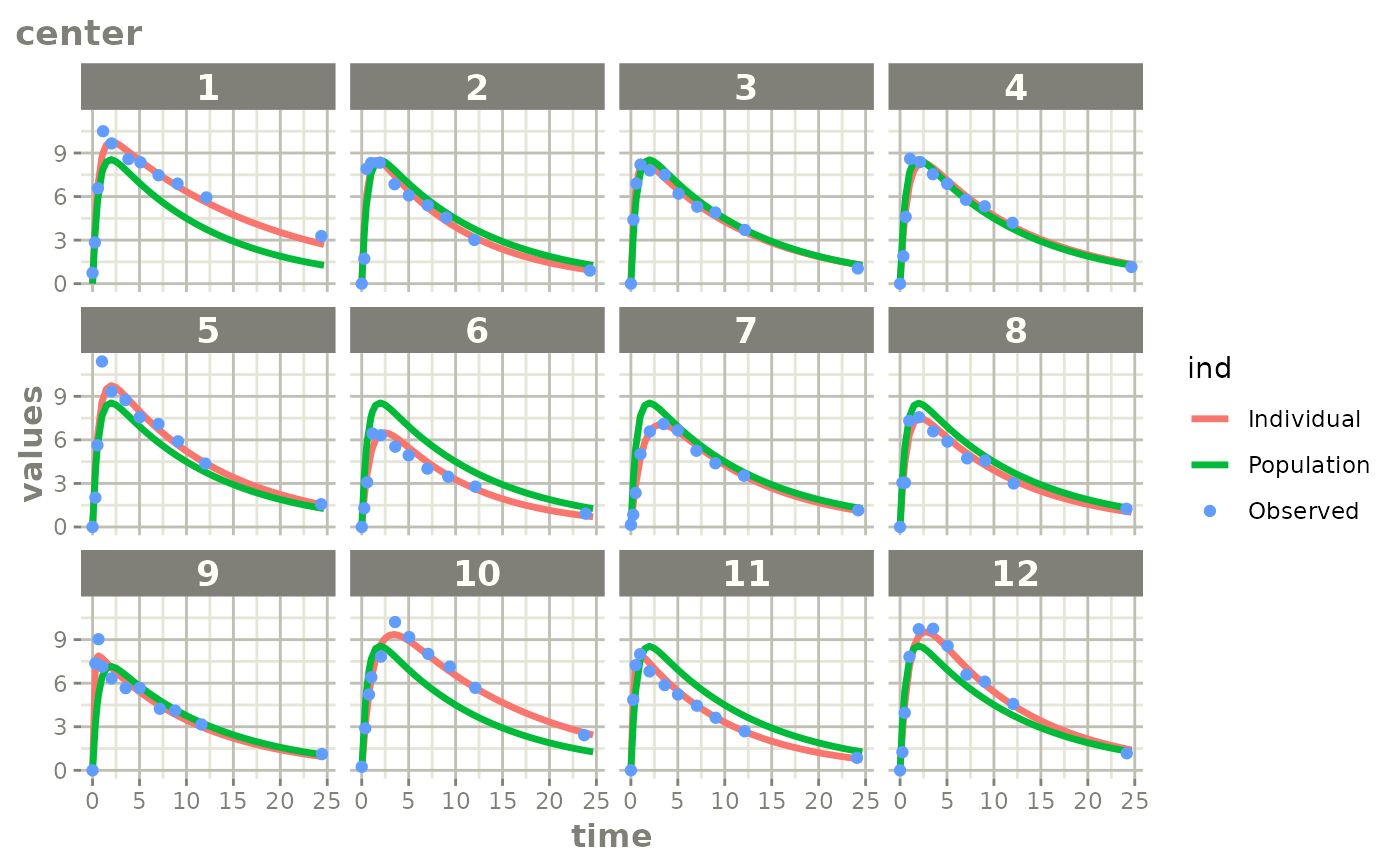
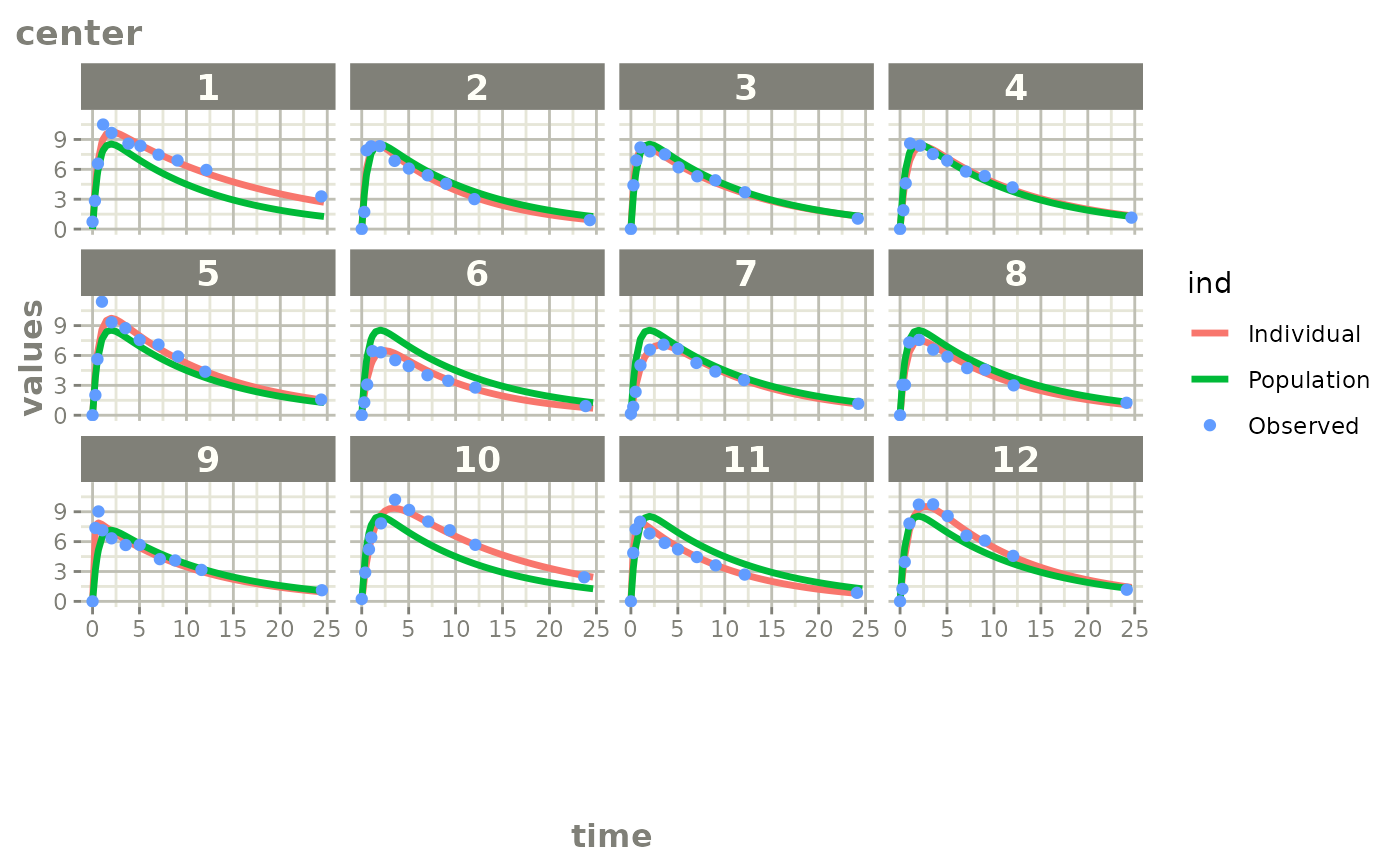
Deploying to gh-pages from @ nlmixr2/nlmixr2plot@66f21967ef0bb30d67d6c0e876495583da8b12fa 🚀

diff --git a/reference/plot.nlmixr2FitData.html b/reference/plot.nlmixr2FitData.html
@@ -56,8 +56,8 @@
 </dl></div>
     <div class="section level2">
     <h2 id="value">Value<a class="anchor" aria-label="anchor" href="#value"></a></h2>
-    <p>An <code>nlmixr2PlotList</code> object (a list of ggplot2 objects with easier
-plotting for all of them at the same time)</p>
+    <p>A named, nested <code><a href="https://humanpred.github.io/ggtibble/reference/gglist.html" class="external-link">ggtibble::gglist</a></code> object (a list of ggplot2 objects
+with easier plotting of all of them at the same time)</p>
     </div>
     <div class="section level2">
     <h2 id="author">Author<a class="anchor" aria-label="anchor" href="#author"></a></h2>
@@ -121,8 +121,8 @@ plotting for all of them at the same time)</p>
 <span class="r-msg co"><span class="r-pr">#&gt;</span> → Calculating residuals/tables</span>
 <span class="r-msg co"><span class="r-pr">#&gt;</span> <span style="color: #00BB00;">✔</span> done</span>
 <span class="r-msg co"><span class="r-pr">#&gt;</span> → compress origData in nlmixr2 object, save 6584</span>
-<span class="r-msg co"><span class="r-pr">#&gt;</span> → compress parHistData in nlmixr2 object, save 2584</span>
-<span class="r-msg co"><span class="r-pr">#&gt;</span> → compress phiM in nlmixr2 object, save 15072</span>
+<span class="r-msg co"><span class="r-pr">#&gt;</span> → compress parHistData in nlmixr2 object, save 2576</span>
+<span class="r-msg co"><span class="r-pr">#&gt;</span> → compress phiM in nlmixr2 object, save 15088</span>
 <span class="r-in"><span></span></span>
 <span class="r-in"><span><span class="co"># This shows many goodness of fit plots</span></span></span>
 <span class="r-in"><span><span class="fu"><a href="https://rdrr.io/r/graphics/plot.default.html" class="external-link">plot</a></span><span class="op">(</span><span class="va">fit</span><span class="op">)</span></span></span>

diff --git a/reference/plot.nlmixr2AugPred.html b/reference/plot.nlmixr2AugPred.html
@@ -60,7 +60,8 @@
 </dl></div>
     <div class="section level2">
     <h2 id="value">Value<a class="anchor" aria-label="anchor" href="#value"></a></h2>
-    <p>Nothing called for side effects</p>
+    <p>A <code><a href="https://humanpred.github.io/ggtibble/reference/gglist.html" class="external-link">ggtibble::gglist</a></code> object (a list of ggplot2 objects, one per page
+of individual plots)</p>
     </div>
 
     <div class="section level2">
@@ -131,8 +132,8 @@
 <span class="r-msg co"><span class="r-pr">#&gt;</span> → Calculating residuals/tables</span>
 <span class="r-msg co"><span class="r-pr">#&gt;</span> <span style="color: #00BB00;">✔</span> done</span>
 <span class="r-msg co"><span class="r-pr">#&gt;</span> → compress origData in nlmixr2 object, save 6584</span>
-<span class="r-msg co"><span class="r-pr">#&gt;</span> → compress parHistData in nlmixr2 object, save 8320</span>
-<span class="r-msg co"><span class="r-pr">#&gt;</span> → compress phiM in nlmixr2 object, save 312080</span>
+<span class="r-msg co"><span class="r-pr">#&gt;</span> → compress parHistData in nlmixr2 object, save 8328</span>
+<span class="r-msg co"><span class="r-pr">#&gt;</span> → compress phiM in nlmixr2 object, save 312064</span>
 <span class="r-in"><span></span></span>
 <span class="r-in"><span><span class="co"># augPred shows more points for the fit:</span></span></span>
 <span class="r-in"><span></span></span>

diff --git a/news/index.html b/news/index.html
@@ -33,7 +33,9 @@
 
     <div class="section level2">
 <h2 class="pkg-version" data-toc-text="5.0.2.9000" id="nlmixr2plot-5029000">nlmixr2plot 5.0.2.9000<a class="anchor" aria-label="anchor" href="#nlmixr2plot-5029000"></a></h2>
-<ul><li>Removed obsolete <code>rxode2::.linCmtSensB()</code> test guards. That internal was removed from <code>rxode2</code> in 2025, so the <code><a href="https://rdrr.io/r/base/try.html" class="external-link">try()</a></code>/<code>skip_if_not()</code> checks always fell through and never skipped. <code>linCmt()</code> gradients are now always available, so the guards are unnecessary and the tests run unconditionally.</li>
+<ul><li>Plot collections returned by <code><a href="https://rdrr.io/r/graphics/plot.default.html" class="external-link">plot()</a></code> (for fits and <code>augPred</code> objects) are now <code>gglist</code> objects from the <code>ggtibble</code> package instead of the internal <code>nlmixr2PlotList</code> class. They still print/plot all figures at once and support broadcasting <code>ggplot2</code> additions (e.g. <code>plot(fit) + ggplot2::theme_bw()</code>), and the top-level object remains a named, nested collection (<code>plot(fit)[["Endpoint: ..."]]</code>). The collection can also be converted to a <code>ggtibble</code> for reporting with <code><a href="https://humanpred.github.io/ggtibble/reference/as_ggtibble.html" class="external-link">ggtibble::as_ggtibble()</a></code>.</li>
+<li>Individual/<code>augPred</code> plots are now paginated with <code><a href="https://ggforce.data-imaginist.com/reference/facet_wrap_paginate.html" class="external-link">ggforce::facet_wrap_paginate()</a></code>, removing the hand-written 16-IDs-per-page chunking. Requires <code>ggtibble (&gt;= 1.0.3.9000)</code> and <code>ggforce</code>; the minimum R version is now 4.3.</li>
+<li>Removed obsolete <code>rxode2::.linCmtSensB()</code> test guards. That internal was removed from <code>rxode2</code> in 2025, so the <code><a href="https://rdrr.io/r/base/try.html" class="external-link">try()</a></code>/<code>skip_if_not()</code> checks always fell through and never skipped. <code>linCmt()</code> gradients are now always available, so the guards are unnecessary and the tests run unconditionally.</li>
 </ul></div>
     <div class="section level2">
 <h2 class="pkg-version" data-toc-text="5.0.2" id="nlmixr2plot-502">nlmixr2plot 5.0.2<a class="anchor" aria-label="anchor" href="#nlmixr2plot-502"></a></h2><p class="text-muted">CRAN release: 2026-06-11</p>

diff --git a/reference/traceplot.html b/reference/traceplot.html
@@ -125,8 +125,8 @@
 <span class="r-msg co"><span class="r-pr">#&gt;</span> → Calculating residuals/tables</span>
 <span class="r-msg co"><span class="r-pr">#&gt;</span> <span style="color: #00BB00;">✔</span> done</span>
 <span class="r-msg co"><span class="r-pr">#&gt;</span> → compress origData in nlmixr2 object, save 6584</span>
-<span class="r-msg co"><span class="r-pr">#&gt;</span> → compress parHistData in nlmixr2 object, save 8320</span>
-<span class="r-msg co"><span class="r-pr">#&gt;</span> → compress phiM in nlmixr2 object, save 312080</span>
+<span class="r-msg co"><span class="r-pr">#&gt;</span> → compress parHistData in nlmixr2 object, save 8328</span>
+<span class="r-msg co"><span class="r-pr">#&gt;</span> → compress phiM in nlmixr2 object, save 312064</span>
 <span class="r-in"><span></span></span>
 <span class="r-in"><span><span class="co"># This shows the traceplot of the fit (useful for saem)</span></span></span>
 <span class="r-in"><span><span class="fu">traceplot</span><span class="op">(</span><span class="va">fit</span><span class="op">)</span></span></span>

diff --git a/reference/vpcPlot.html b/reference/vpcPlot.html
@@ -291,7 +291,7 @@ default, <code>"vpc"</code> is used when the <span class="pkg">vpc</span> packag
 <span class="r-msg co"><span class="r-pr">#&gt;</span> <span style="color: #00BB00;">✔</span> done</span>
 <span class="r-msg co"><span class="r-pr">#&gt;</span> → compress origData in nlmixr2 object, save 6584</span>
 <span class="r-msg co"><span class="r-pr">#&gt;</span> → compress parHistData in nlmixr2 object, save 8280</span>
-<span class="r-msg co"><span class="r-pr">#&gt;</span> → compress phiM in nlmixr2 object, save 429424</span>
+<span class="r-msg co"><span class="r-pr">#&gt;</span> → compress phiM in nlmixr2 object, save 429416</span>
 <span class="r-in"><span></span></span>
 <span class="r-in"><span><span class="fu">vpcPlot</span><span class="op">(</span><span class="va">fit</span><span class="op">)</span></span></span>
 <span class="r-msg co"><span class="r-pr">#&gt;</span>  </span>

diff --git a/news/index.md b/news/index.md
@@ -2,6 +2,21 @@
 
 ## nlmixr2plot 5.0.2.9000
 
+- Plot collections returned by
+  [`plot()`](https://rdrr.io/r/graphics/plot.default.html) (for fits and
+  `augPred` objects) are now `gglist` objects from the `ggtibble`
+  package instead of the internal `nlmixr2PlotList` class. They still
+  print/plot all figures at once and support broadcasting `ggplot2`
+  additions (e.g. `plot(fit) + ggplot2::theme_bw()`), and the top-level
+  object remains a named, nested collection
+  (`plot(fit)[["Endpoint: ..."]]`). The collection can also be converted
+  to a `ggtibble` for reporting with
+  [`ggtibble::as_ggtibble()`](https://humanpred.github.io/ggtibble/reference/as_ggtibble.html).
+- Individual/`augPred` plots are now paginated with
+  [`ggforce::facet_wrap_paginate()`](https://ggforce.data-imaginist.com/reference/facet_wrap_paginate.html),
+  removing the hand-written 16-IDs-per-page chunking. Requires
+  `ggtibble (>= 1.0.3.9000)` and `ggforce`; the minimum R version is now
+  4.3.
 - Removed obsolete `rxode2::.linCmtSensB()` test guards. That internal
   was removed from `rxode2` in 2025, so the
   [`try()`](https://rdrr.io/r/base/try.html)/`skip_if_not()` checks

diff --git a/reference/plot.nlmixr2FitData.md b/reference/plot.nlmixr2FitData.md
@@ -21,8 +21,10 @@ plot(x, ...)
 
 ## Value
 
-An `nlmixr2PlotList` object (a list of ggplot2 objects with easier
-plotting for all of them at the same time)
+A named, nested
+[`ggtibble::gglist`](https://humanpred.github.io/ggtibble/reference/gglist.html)
+object (a list of ggplot2 objects with easier plotting of all of them at
+the same time)
 
 ## Author
 
@@ -86,8 +88,8 @@ fit <- nlmixr2(one.compartment, theo_sd,  est="saem", saemControl(print=0, nBurn
 #> → Calculating residuals/tables
 #> ✔ done
 #> → compress origData in nlmixr2 object, save 6584
-#> → compress parHistData in nlmixr2 object, save 2584
-#> → compress phiM in nlmixr2 object, save 15072
+#> → compress parHistData in nlmixr2 object, save 2576
+#> → compress phiM in nlmixr2 object, save 15088
 
 # This shows many goodness of fit plots
 plot(fit)

diff --git a/reference/plot.nlmixr2AugPred.md b/reference/plot.nlmixr2AugPred.md
@@ -25,7 +25,9 @@ plot(x, y, ...)
 
 ## Value
 
-Nothing called for side effects
+A
+[`ggtibble::gglist`](https://humanpred.github.io/ggtibble/reference/gglist.html)
+object (a list of ggplot2 objects, one per page of individual plots)
 
 ## Examples
 
@@ -96,8 +98,8 @@ fit <- nlmixr2est::nlmixr2(one.compartment, theo_sd,  est="saem", saemControl(pr
 #> → Calculating residuals/tables
 #> ✔ done
 #> → compress origData in nlmixr2 object, save 6584
-#> → compress parHistData in nlmixr2 object, save 8320
-#> → compress phiM in nlmixr2 object, save 312080
+#> → compress parHistData in nlmixr2 object, save 8328
+#> → compress phiM in nlmixr2 object, save 312064
 
 # augPred shows more points for the fit:
 

diff --git a/reference/traceplot.md b/reference/traceplot.md
@@ -90,8 +90,8 @@ fit <- nlmixr2(one.compartment, theo_sd,  est="saem", saemControl(print=0))
 #> → Calculating residuals/tables
 #> ✔ done
 #> → compress origData in nlmixr2 object, save 6584
-#> → compress parHistData in nlmixr2 object, save 8320
-#> → compress phiM in nlmixr2 object, save 312080
+#> → compress parHistData in nlmixr2 object, save 8328
+#> → compress phiM in nlmixr2 object, save 312064
 
 # This shows the traceplot of the fit (useful for saem)
 traceplot(fit)

diff --git a/reference/vpcPlot.md b/reference/vpcPlot.md
@@ -264,7 +264,7 @@ fit <-
 #> ✔ done
 #> → compress origData in nlmixr2 object, save 6584
 #> → compress parHistData in nlmixr2 object, save 8280
-#> → compress phiM in nlmixr2 object, save 429424
+#> → compress phiM in nlmixr2 object, save 429416
 
 vpcPlot(fit)
 #>  